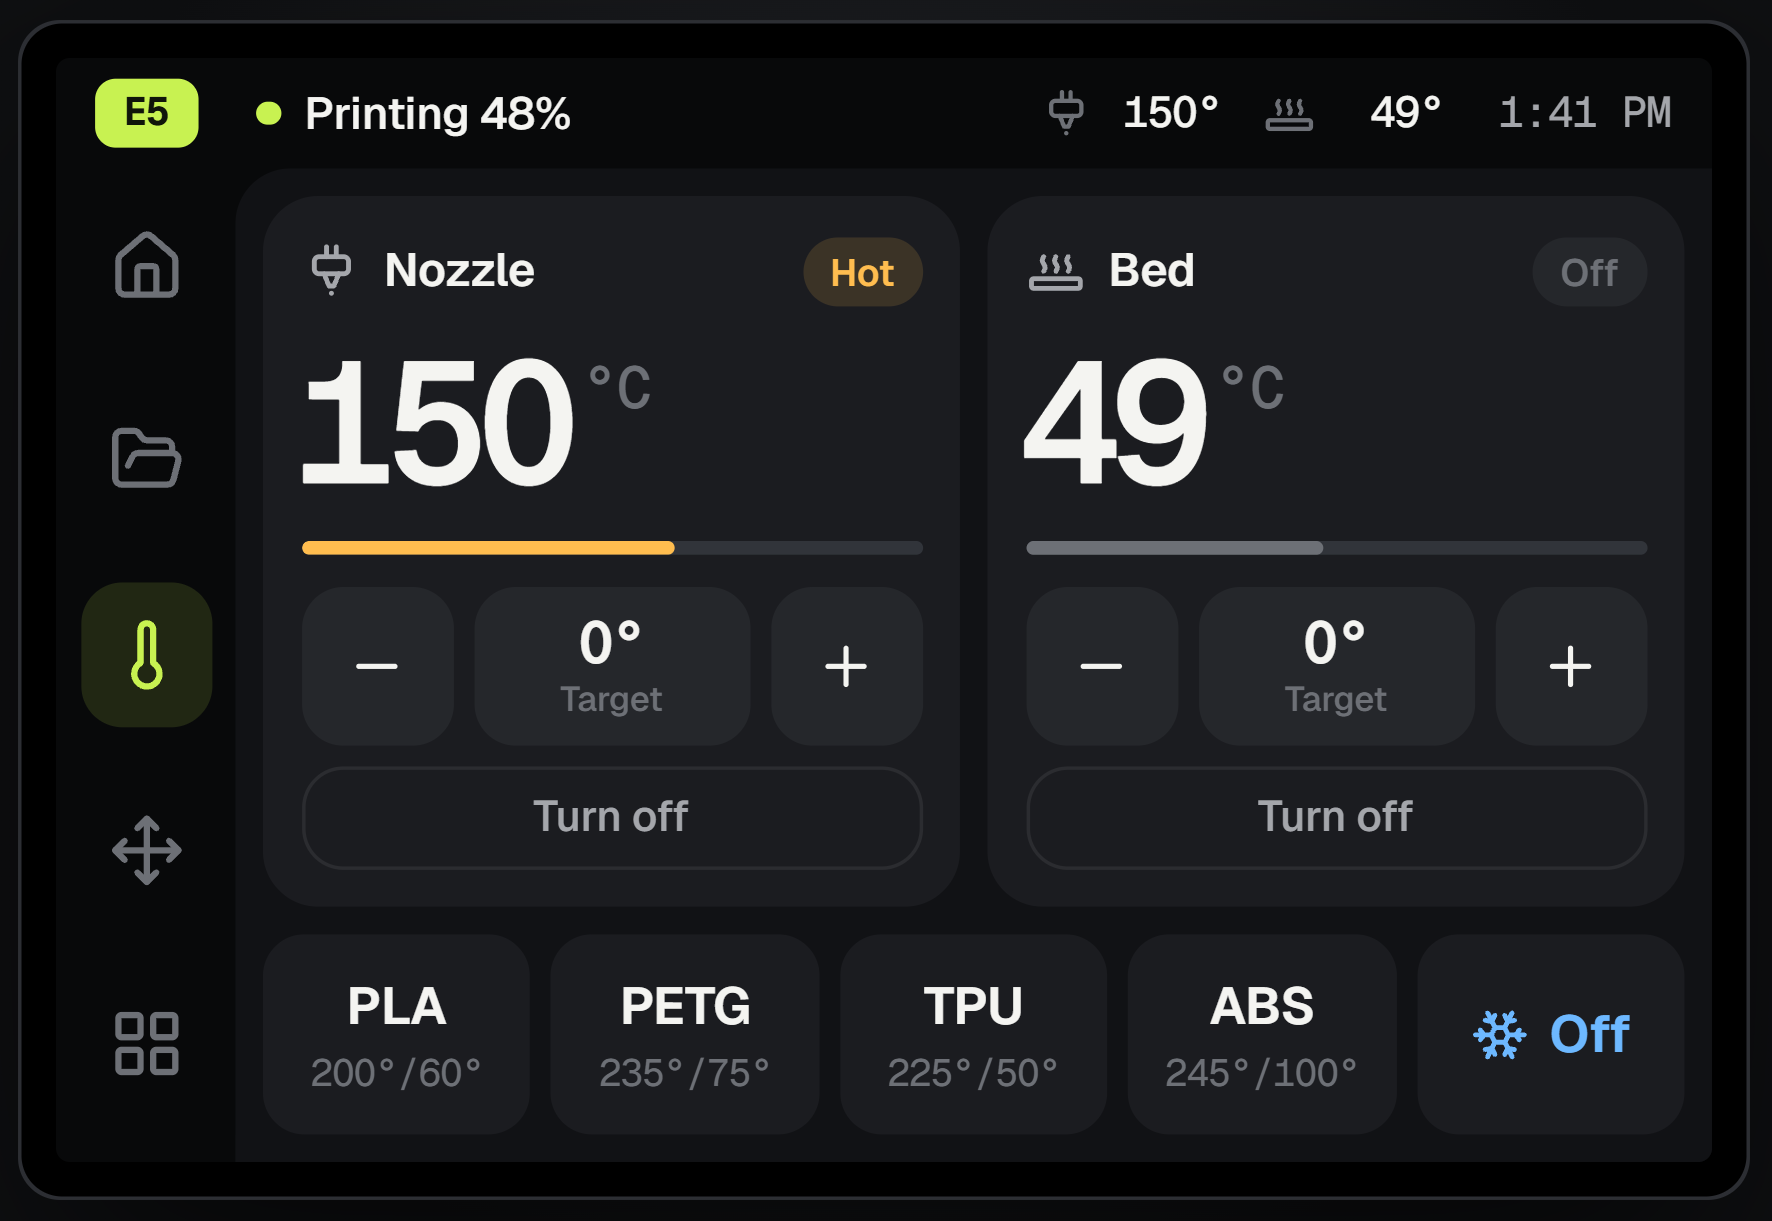
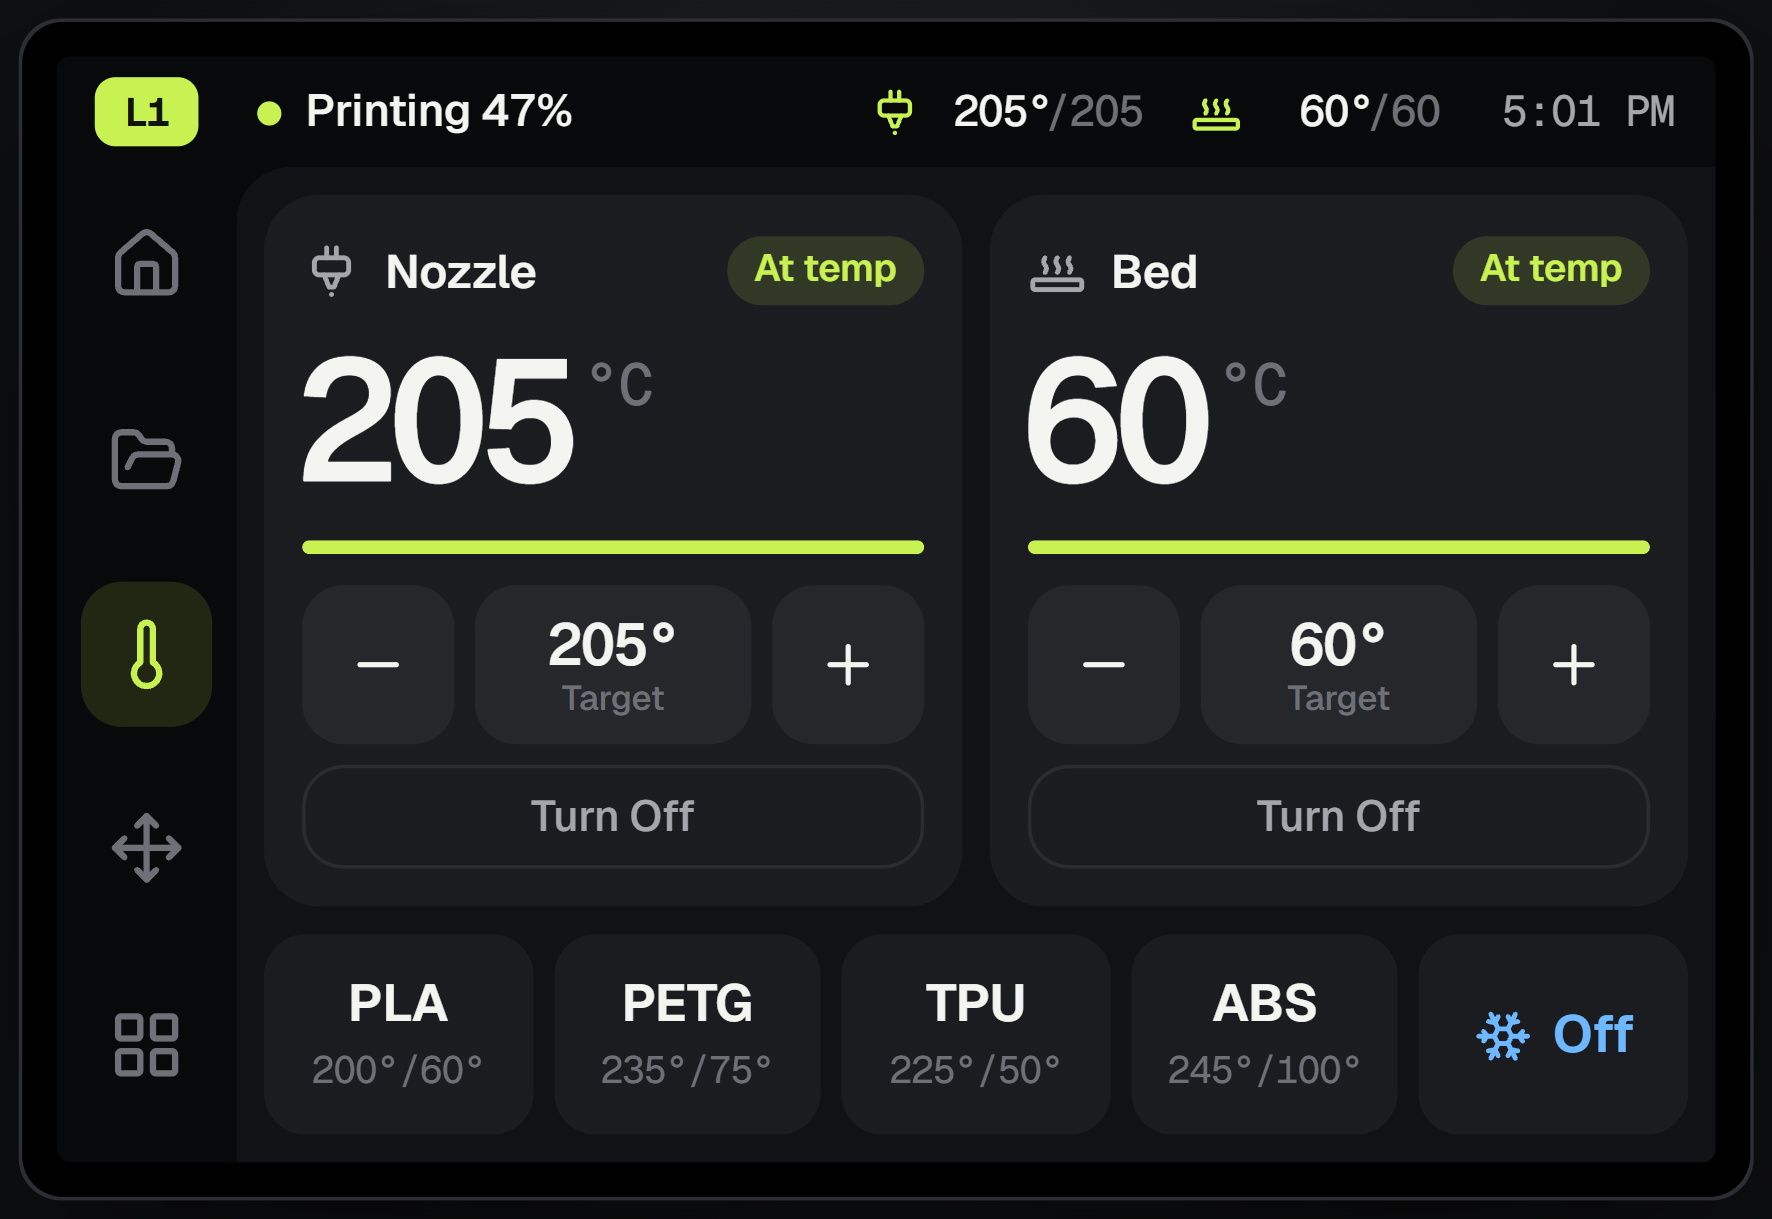
Rename Ender 5 Touch UI to Layer1 and update related files
- Updated deployment script to reflect new plugin name and URL.
- Replaced references to "ender5-touch" with "layer1" in configuration and setup scripts.
- Modified kiosk service and associated scripts for Layer1 integration.
- Updated plugin metadata and README to reflect the new name and functionality.
- Changed all instances of "Ender 5 Touch" to "Layer1" in the UI and JavaScript files.
- Adjusted paths and filenames in the project structure to align with the new naming convention.

diff --git a/ender-5-pro/touch-ui/octoprint_ender5touch/static/js/sheets/calibrate.js b/ender-5-pro/touch-ui/octoprint_ender5touch/static/js/sheets/calibrate.js
@@ -119,11 +119,11 @@ export function openCalibration(ctx) {
     }
     const m = mul3([...correction, 0, 0, 1], current);
     // Also to the browser log, so the result can be read over SSH (kiosk/demo logs).
-    console.info(`[ender5] touch matrix: ${fmt(m)} | taps: ${JSON.stringify(observed.map((p) => p.map((v) => +v.toFixed(4))))}`);
+    console.info(`[layer1] touch matrix: ${fmt(m)} | taps: ${JSON.stringify(observed.map((p) => p.map((v) => +v.toFixed(4))))}`);
     el.innerHTML = `<div class="result">
       <h3>Touch calibrated</h3>
       <div class="note">To keep it, run this on the Pi over SSH. The screen restarts with the new setting:</div>
-      <code>sudo ender5-kiosk set-touch "${fmt(m)}"</code>
+      <code>sudo layer1-kiosk set-touch "${fmt(m)}"</code>
       <div class="note">${ctx.touchMatrix ? '' : 'The kiosk didn’t report its current matrix, so this assumes none was set. '}Use “Test” to check: grey dot is where touches land now, green is where they will land.</div>
       <div class="row-actions"><button class="btn ghost" data-a="redo">Redo</button><button class="btn" data-a="test">Test</button><button class="btn primary" data-a="close">Close</button></div>
     </div>`;
@@ -139,7 +139,7 @@ export function openCalibration(ctx) {
     correction = fitAffine(observed, TARGETS);
     const problem = checkFit(observed, TARGETS, correction);
     if (problem) {
-      console.info(`[ender5] touch calibration rejected: ${problem} | taps: ${JSON.stringify(observed.map((p) => p.map((v) => +v.toFixed(4))))}`);
+      console.info(`[layer1] touch calibration rejected: ${problem} | taps: ${JSON.stringify(observed.map((p) => p.map((v) => +v.toFixed(4))))}`);
       drawResult(problem);
       return;
     }

diff --git a/ender-5-pro/touch-ui/octoprint_ender5touch/static/js/session.js b/ender-5-pro/touch-ui/octoprint_ender5touch/static/js/session.js
@@ -3,7 +3,7 @@
 
 export const UI_VERSION = '0.2.0';
 
-const KEY = 'ender5touch.apiKey';
+const KEY = 'layer1.apiKey';
 
 export function loadKey() {
   try { return localStorage.getItem(KEY) || ''; } catch { return ''; }
@@ -19,7 +19,7 @@ export function forgetKey() {
 
 // Theme: 'dark' or 'light'. The choice made on the screen is remembered per device and
 // wins over the config default. index.html applies it before first paint (no flash).
-const THEME_KEY = 'ender5touch.theme';
+const THEME_KEY = 'layer1.theme';
 const THEMES = ['dark', 'light'];
 
 export function storedTheme() {
@@ -43,7 +43,7 @@ export function setTheme(theme) {
 }
 
 // Home picture: 'cam' (live camera) or 'model' (the slicer thumbnail), toggled by its chip.
-const MEDIA_KEY = 'ender5touch.homeMedia';
+const MEDIA_KEY = 'layer1.homeMedia';
 
 export function storedMedia() {
   try { return localStorage.getItem(MEDIA_KEY) === 'model' ? 'model' : 'cam'; } catch { return 'cam'; }
@@ -54,7 +54,7 @@ export function saveMedia(pref) {
 }
 
 // Files view: 'list' (rows) or 'grid' (a gallery of thumbnails).
-const FILES_VIEW_KEY = 'ender5touch.filesView';
+const FILES_VIEW_KEY = 'layer1.filesView';
 
 export function storedFilesView() {
   try { return localStorage.getItem(FILES_VIEW_KEY) === 'grid' ? 'grid' : 'list'; } catch { return 'list'; }
@@ -65,7 +65,7 @@ export function saveFilesView(view) {
 }
 
 // Files sort: one of the keys of SORTS in screens/files.js (which checks it), or null.
-const FILES_SORT_KEY = 'ender5touch.filesSort';
+const FILES_SORT_KEY = 'layer1.filesSort';
 
 export function storedFilesSort() {
   try { return localStorage.getItem(FILES_SORT_KEY); } catch { return null; }

diff --git a/ender-5-pro/touch-ui/octoprint_ender5touch/static/js/app.js b/ender-5-pro/touch-ui/octoprint_ender5touch/static/js/app.js
@@ -59,7 +59,7 @@ function createStore(initial) {
 }
 
 function computeBase() {
-  const i = location.pathname.indexOf('/plugin/ender5touch/');
+  const i = location.pathname.indexOf('/plugin/layer1/');
   return i >= 0 ? location.pathname.slice(0, i + 1) : '/';
 }
 
@@ -221,13 +221,13 @@ async function boot() {
     filesAge: () => Date.now() - filesAt,
   };
   const refreshFilesSoon = debounce(() => ctx.refreshFiles(), 800);
-  document.title = cfg.printer.name;
+  document.title = `Layer1 · ${cfg.printer.name}`;
 
   // ~~ shell
 
   initUI(app);
   const rail = app.querySelector('#rail');
-  rail.innerHTML = `<div class="brand"><span class="mark">E5</span></div>${SCREENS.map((s) => `<button data-nav="${s.id}" aria-label="${s.title}">${icon(s.icon)}</button>`).join('')}`;
+  rail.innerHTML = `<div class="brand"><span class="mark">L1</span></div>${SCREENS.map((s) => `<button data-nav="${s.id}" aria-label="${s.title}">${icon(s.icon)}</button>`).join('')}`;
   buildStatusBar(app.querySelector('#status'), ctx);
 
   const screensEl = app.querySelector('#screens');

diff --git a/ender-5-pro/touch-ui/octoprint_ender5touch/static/js/sheets/pair.js b/ender-5-pro/touch-ui/octoprint_ender5touch/static/js/sheets/pair.js
@@ -13,7 +13,7 @@ export function showPairing(ctx, { demo = false } = {}) {
     el.className = 'takeover';
     el.innerHTML = `
       <div class="pair">
-        <div class="mark"><div class="boot-mark">E5</div><span>${esc(ctx.cfg.printer.name)}<br>touchscreen</span></div>
+        <div class="mark"><div class="boot-mark">L1</div><span>Layer1<br>${esc(ctx.cfg.printer.name)}</span></div>
         <div class="body">
           <h1>Pair this screen with OctoPrint</h1>
           <ol>
@@ -41,7 +41,7 @@ export function showPairing(ctx, { demo = false } = {}) {
         const probe = await probeAppKeys(ctx.base);
         if (probe === 'ok') break;
         if (probe === 'missing') {
-          status('OctoPrint’s Application Keys plugin is off. Enable it, or put an API key in /etc/ender5-kiosk.conf.', 'danger', true);
+          status('OctoPrint’s Application Keys plugin is off. Enable it, or put an API key in /etc/layer1-kiosk.conf.', 'danger', true);
           return;
         }
         status('Waiting for OctoPrint to start…', 'muted');

diff --git a/ender-5-pro/touch-ui/octoprint_ender5touch/static/index.html b/ender-5-pro/touch-ui/octoprint_ender5touch/static/index.html
@@ -4,12 +4,12 @@
   <meta charset="utf-8">
   <meta name="viewport" content="width=device-width, initial-scale=1, maximum-scale=1, user-scalable=no">
   <meta name="color-scheme" content="dark">
-  <title>Ender 5 Pro</title>
+  <title>Layer1</title>
   <script>
     // Theme before first paint: the screen's saved choice, else ?theme= / #theme= (app.js
     // then falls back to the config default). Keep in step with session.js.
     try {
-      var t = localStorage.getItem('ender5touch.theme')
+      var t = localStorage.getItem('layer1.theme')
         || new URLSearchParams(location.search).get('theme')
         || new URLSearchParams(location.hash.slice(1)).get('theme');
       if (t === 'light' || t === 'dark') document.documentElement.dataset.theme = t;
@@ -28,7 +28,7 @@
       <main id="screens"></main>
       <div id="layer"></div>
       <div id="boot">
-        <div class="boot-mark">E5</div>
+        <div class="boot-mark">L1</div>
         <div class="boot-text">Starting…</div>
       </div>
     </div>

diff --git a/ender-5-pro/touch-ui/octoprint_ender5touch/static/js/sheets/system.js b/ender-5-pro/touch-ui/octoprint_ender5touch/static/js/sheets/system.js
@@ -23,7 +23,7 @@ export async function exitToDesktop() {
   });
   if (!ok) return;
   window.close(); // allowed: the launcher opened this window and it has a single history entry
-  setTimeout(() => toast('Browser Didn’t Close · Run ~/ender5-touch/demo.sh stop over SSH', 'warn', 6000), 800);
+  setTimeout(() => toast('Browser Didn’t Close · Run ~/layer1/demo.sh stop over SSH', 'warn', 6000), 800);
 }
 
 export function openSystem(ctx) {
@@ -37,7 +37,7 @@ export function openSystem(ctx) {
       body.innerHTML = `
         <div class="kvlist" style="margin-bottom:10px">
           <div class="kv"><span>OctoPrint</span><b data-r="ver">…</b></div>
-          <div class="kv"><span>Touch UI</span><b>${esc(UI_VERSION)}</b></div>
+          <div class="kv"><span>Layer1</span><b>${esc(UI_VERSION)}</b></div>
           <div class="kv"><span>Web address</span><b>${esc(ctx.host)}</b></div>
         </div>
         <div class="row-actions" data-r="power" style="margin-bottom:6px"></div>

diff --git a/ender-5-pro/touch-ui/octoprint_ender5touch/static/js/screens/home.js b/ender-5-pro/touch-ui/octoprint_ender5touch/static/js/screens/home.js
@@ -135,7 +135,7 @@ export default {
       loadModel(ctx.client, modelFile).then(
         () => { if (m3d.key === key) { m3d.status = 'ready'; render(store.get()); } },
         (e) => {
-          console.warn('[ender5] 3D view:', (e && e.message) || e);
+          console.warn('[layer1] 3D view:', (e && e.message) || e);
           if (m3d.key === key) { m3d.status = 'failed'; render(store.get()); }
         },
       );

diff --git a/ender-5-pro/touch-ui/octoprint_ender5touch/static/js/mock-gcode.js b/ender-5-pro/touch-ui/octoprint_ender5touch/static/js/mock-gcode.js
@@ -144,7 +144,7 @@ export function demoGcode(kind) {
   };
   const loop = (poly) => { travel(poly[0][0], poly[0][1]); for (let i = 1; i <= poly.length; i++) extrude(...poly[i % poly.length]); };
 
-  out(`; Ender 5 touch UI demo part: ${kind}`);
+  out(`; Layer1 demo part: ${kind}`);
   out(';FLAVOR:Marlin');
   out('M140 S60');
   out('M104 S205');

diff --git a/ender-5-pro/touch-ui/octoprint_ender5touch/static/css/app.css b/ender-5-pro/touch-ui/octoprint_ender5touch/static/css/app.css
@@ -1,4 +1,4 @@
-/* Ender 5 Pro touch UI - "Graphite & Signal"
+/* Layer1 - "Graphite & Signal"
    A matte instrument panel for a 480x320 SPI screen: flat graphite surfaces
    (gradients band on 16-bit panels), one lime signal colour for progress and
    "go", orange reserved for heat. Geist for words, Geist Mono for every live

diff --git a/ender-5-pro/touch-ui/octoprint_ender5touch/static/js/model3d.js b/ender-5-pro/touch-ui/octoprint_ender5touch/static/js/model3d.js
@@ -181,7 +181,7 @@ export class ModelView {
         if (this.onStats) this.onStats(res.stats);
       }
     } catch (e) {
-      console.warn('[ender5] 3D view:', e.message || e);
+      console.warn('[layer1] 3D view:', e.message || e);
     } finally {
       this.busy = false;
       this.lastDraw = Date.now();

diff --git a/ender-5-pro/touch-ui/octoprint_ender5touch/static/js/api.js b/ender-5-pro/touch-ui/octoprint_ender5touch/static/js/api.js
@@ -7,7 +7,7 @@
 
 import { sleep } from './util.js';
 
-export const APP_NAME = 'Ender 5 Pro touchscreen';
+export const APP_NAME = 'Layer1';
 
 export class Emitter {
   constructor() { this._handlers = {}; }

diff --git a/ender-5-pro/touch-ui/octoprint_ender5touch/__init__.py b/ender-5-pro/touch-ui/octoprint_ender5touch/__init__.py
@@ -1,5 +1,5 @@
 # coding=utf-8
-"""Ender 5 Touch: a full-screen touch UI for OctoPrint, sized for a 480x320 screen.
+"""Layer1: a full-screen touch UI for OctoPrint, sized for a 480x320 screen.
 
 The plugin only serves a static single-page app and a small JSON config. All
 printer control happens in the browser through OctoPrint's normal REST and push
@@ -28,7 +28,7 @@ def _deep_merge(base, override):
     return result
 
 
-class Ender5TouchPlugin(octoprint.plugin.BlueprintPlugin):
+class Layer1Plugin(octoprint.plugin.BlueprintPlugin):
     def _static_dir(self):
         return os.path.join(self._basefolder, "static")
 
@@ -85,7 +85,7 @@ class Ender5TouchPlugin(octoprint.plugin.BlueprintPlugin):
         return response
 
 
-__plugin_name__ = "Ender 5 Touch"
+__plugin_name__ = "Layer1"
 __plugin_description__ = "Full-screen touch UI for an Ender 5 Pro on a small Raspberry Pi screen"
 __plugin_pythoncompat__ = ">=3.7,<4"
-__plugin_implementation__ = Ender5TouchPlugin()
+__plugin_implementation__ = Layer1Plugin()
